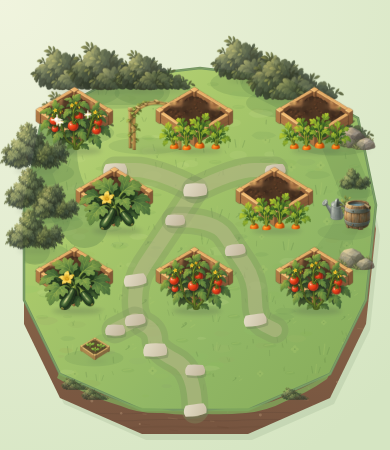
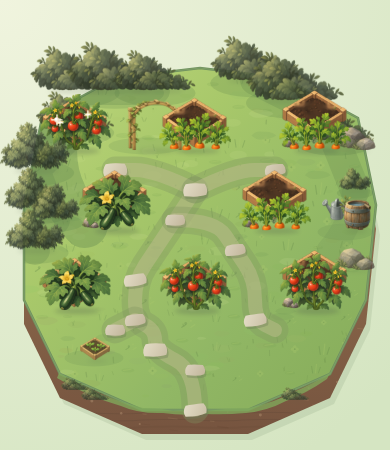
fix(potager): variétés v00+v01 et taille 66px pour lisibilité (#49)
- Réintroduit v01 (bois+terre+pierre+feuillage) sur 4 slots éloignés du
  treillis (index 1,3,5,7) pour varier visuellement les cadres
- v00 reste sur les 4 autres slots (index 0,2,4,6), notamment index 4
  près du treillis
- Réduit la taille de rendu de 80×62 à 66×51.2 (v00) / 66×59.1 (v01),
  en préservant le ratio natif de chaque variante
- 66px < 72px (cultures): masquage naturel sans domination des bacs vides
- Moins de chevauchement avec le treillis qu'à 80px
- 64 tests passent, dart analyze propre

diff --git a/lib/garden/potager_scene.dart b/lib/garden/potager_scene.dart
@@ -32,73 +32,77 @@ class PotagerPilotScene {
 /// Each index references an explicitly authored platebande variant;
 /// no variant is chosen by calculation, random, or plant state.
 ///
-/// Only variant 00 is used: its YAML palette_roles are bois_chaud and
-/// terre_humide alone — no integrated stone or foliage accessory that could
-/// cross or compete with a crop. Variants 01–03 carry pierre_creme and
-/// feuillage_sauge integrated structures deemed too present for a frame.
+/// Two variants are used: v00 (bois + terre, fully neutral) and v01 (bois +
+/// terre + pierre + feuillage). v01's extra 6.25 visible px of accessories
+/// sit at the top of the sprite, above the wooden frame. At the 66 px render
+/// width they are compact enough to read as a detail of the bed rather than
+/// a structure crossing the crop. v01 is kept away from the trellis (index 4)
+/// and from the back-left corner (index 0) to avoid compounding structures.
 class PotagerBeds {
   const PotagerBeds._();
 
-  static const _bedWidth = 80.0;
-  static const _bedHeight = 62.0;
+  static const _bedWidth = 66.0;
+  static const _v00Height = 51.2;
+  static const _v01Height = 59.1;
 
   static const _v00 = 'potager_decor_bac_potager_statique_ordinaire_00.png';
+  static const _v01 = 'potager_decor_bac_potager_statique_ordinaire_01.png';
 
   static const beds = <GardenSpriteObject>[
     GardenSpriteObject(
       id: 'bed_0',
       asset: _v00,
       contact: Offset(75, 150),
-      size: Size(_bedWidth, _bedHeight),
+      size: Size(_bedWidth, _v00Height),
       layer: GardenLayer.depth,
     ),
     GardenSpriteObject(
       id: 'bed_1',
-      asset: _v00,
+      asset: _v01,
       contact: Offset(275, 230),
-      size: Size(_bedWidth, _bedHeight),
+      size: Size(_bedWidth, _v01Height),
       layer: GardenLayer.depth,
     ),
     GardenSpriteObject(
       id: 'bed_2',
       asset: _v00,
       contact: Offset(75, 310),
-      size: Size(_bedWidth, _bedHeight),
+      size: Size(_bedWidth, _v00Height),
       layer: GardenLayer.depth,
     ),
     GardenSpriteObject(
       id: 'bed_3',
-      asset: _v00,
+      asset: _v01,
       contact: Offset(315, 310),
-      size: Size(_bedWidth, _bedHeight),
+      size: Size(_bedWidth, _v01Height),
       layer: GardenLayer.depth,
     ),
     GardenSpriteObject(
       id: 'bed_4',
       asset: _v00,
       contact: Offset(195, 150),
-      size: Size(_bedWidth, _bedHeight),
+      size: Size(_bedWidth, _v00Height),
       layer: GardenLayer.depth,
     ),
     GardenSpriteObject(
       id: 'bed_5',
-      asset: _v00,
+      asset: _v01,
       contact: Offset(115, 230),
-      size: Size(_bedWidth, _bedHeight),
+      size: Size(_bedWidth, _v01Height),
       layer: GardenLayer.depth,
     ),
     GardenSpriteObject(
       id: 'bed_6',
       asset: _v00,
       contact: Offset(195, 310),
-      size: Size(_bedWidth, _bedHeight),
+      size: Size(_bedWidth, _v00Height),
       layer: GardenLayer.depth,
     ),
     GardenSpriteObject(
       id: 'bed_7',
-      asset: _v00,
+      asset: _v01,
       contact: Offset(315, 150),
-      size: Size(_bedWidth, _bedHeight),
+      size: Size(_bedWidth, _v01Height),
       layer: GardenLayer.depth,
     ),
   ];

diff --git a/test/garden_scene_test.dart b/test/garden_scene_test.dart
@@ -131,14 +131,10 @@ void main() {
     recorder.endRecording().dispose();
   });
 
-  const bedVariants = {
+  const allowedBedVariants = {
     'potager_decor_bac_potager_statique_ordinaire_00.png',
     'potager_decor_bac_potager_statique_ordinaire_01.png',
-    'potager_decor_bac_potager_statique_ordinaire_02.png',
-    'potager_decor_bac_potager_statique_ordinaire_03.png',
   };
-
-  const neutralBedVariant = 'potager_decor_bac_potager_statique_ordinaire_00.png';
 
   test('potager beds preserve the eight existing ground contacts', () {
     expect(PotagerBeds.beds.length, 8);
@@ -148,17 +144,15 @@ void main() {
     );
   });
 
-  test('potager beds reference only neutral authored variants', () async {
+  test('potager beds reference only allowed authored variants', () async {
     for (final bed in PotagerBeds.beds) {
-      expect(bedVariants, contains(bed.asset));
-      expect(
-        bed.asset,
-        neutralBedVariant,
-        reason:
-            'only variant 00 (bois + terre, no integrated stone or foliage) '
-            'is neutral enough to frame all crops without crossing them',
-      );
+      expect(allowedBedVariants, contains(bed.asset));
     }
+    expect(
+      PotagerBeds.beds.map((bed) => bed.asset).toSet().length,
+      2,
+      reason: 'at least two variants must be used for visual variety',
+    );
     final manifest = jsonDecode(
       await rootBundle.loadString('assets/sprites/manifest.json'),
     ) as Map<String, dynamic>;
